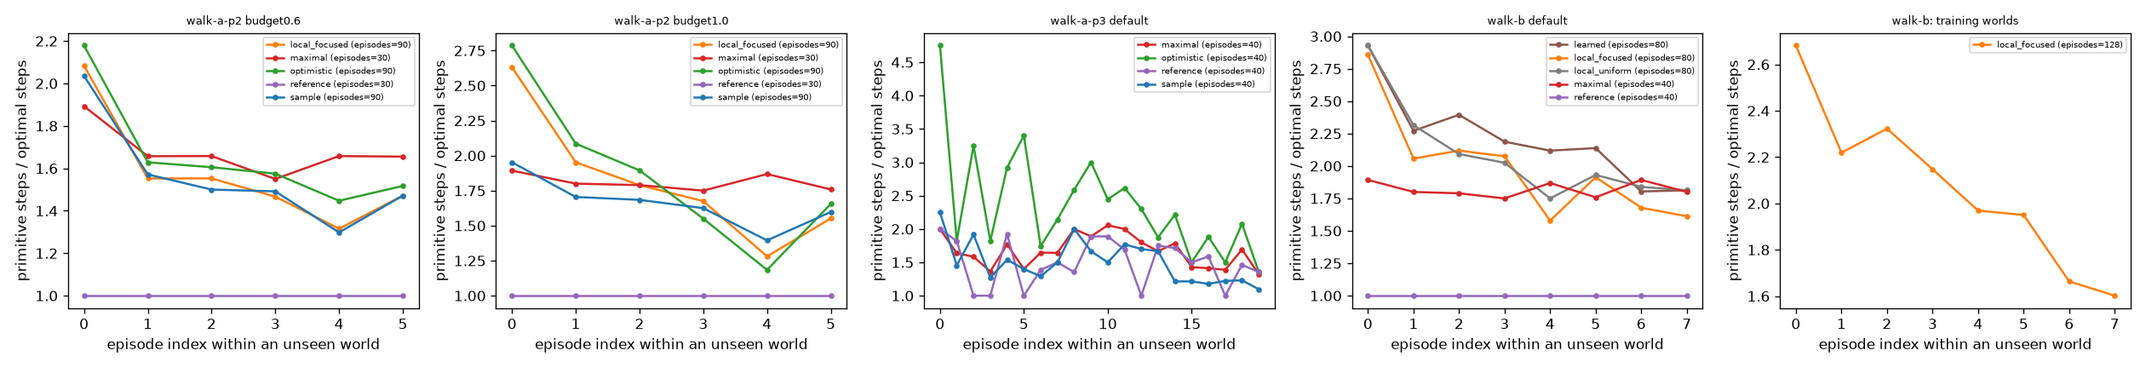
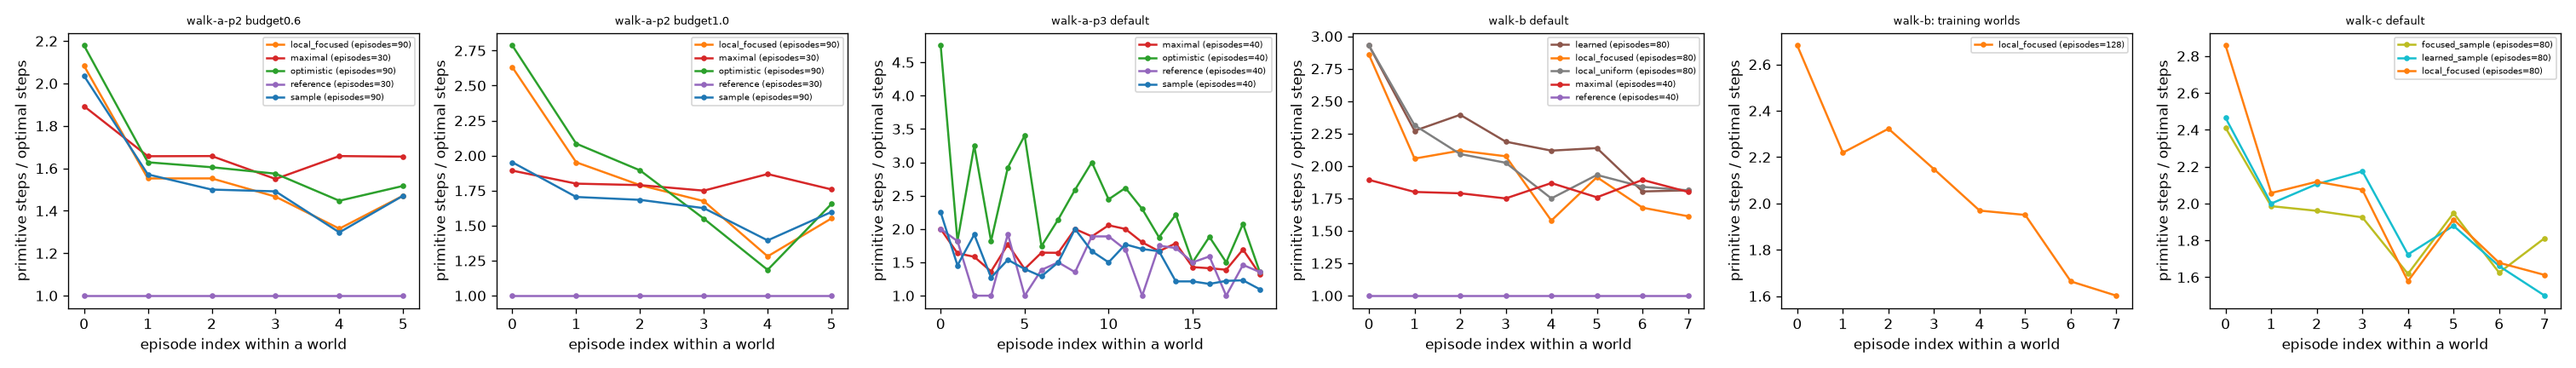
Add Stage C walker results
Sampling among consistent hypotheses raised success for both walks, but no
walk beat the brute-force plan in both seeds when only goals are observed
(the frozen Stage C contrast failed); the reproduction control matched
Stage B exactly.

diff --git a/src/hypergraph_agent/summarize.py b/src/hypergraph_agent/summarize.py
@@ -198,7 +198,8 @@ def figures(runs: list[dict], out_dir: Path) -> list[str]:
     # 4: walkers: cost relative to the optimum by episode index within a world
     colors = {"reference": "tab:purple", "maximal": "tab:red", "sample": "tab:blue",
               "optimistic": "tab:green", "local_uniform": "tab:gray", "local_focused": "tab:orange",
-              "learned": "tab:brown", "exact": "tab:pink"}
+              "learned": "tab:brown", "exact": "tab:pink", "focused_sample": "tab:olive",
+              "learned_sample": "tab:cyan"}
     groups = defaultdict(dict)  # panel -> strategy -> ep -> sums
     for r in done:
         if not str(r["phase"]).startswith("walker"):
@@ -225,7 +226,7 @@ def figures(runs: list[dict], out_dir: Path) -> list[str]:
                 ax.plot(xs, [eps[x][0] / max(eps[x][1], 1) for x in xs], marker="o", markersize=3,
                         color=colors.get(strat), label=f"{strat} (episodes={sum(eps[x][2] for x in xs)})")
             ax.set_title(panel, fontsize=8)
-            ax.set_xlabel("episode index within an unseen world")
+            ax.set_xlabel("episode index within a world")
             ax.set_ylabel("primitive steps / optimal steps")
             ax.legend(fontsize=6)
         fig.tight_layout()

diff --git a/docs/RESULTS.md b/docs/RESULTS.md
@@ -20,7 +20,7 @@ relation-local memory, goal-conditioned primitive-policy control,
 library-transplant diagnostic, credible-set-mask-as-feature control, learned
 proposals or termination (docs/DECISIONS.md, docs/ROADMAP.md).
 
-Test suite: 144 deterministic tests pass (`python -m pytest -q`), covering the
+Test suite: 148 deterministic tests pass (`python -m pytest -q`), covering the
 items listed in docs/METHODS.md (environment semantics, information boundary,
 equivariance and padding, incidence and hypergraph equivalence, topology
 updates and rollback, executor semantics, library lifecycle, duration-aware
@@ -168,9 +168,9 @@ Observations, not claims:
 
 ## 4.4 Hypergraph-walker study (addendum W of the plan)
 
-Separate ledger `runs/walker-ledger.json`: 22,948 of 32,000 adaptive
+Separate ledger `runs/walker-ledger.json`: 26,147 of 32,000 adaptive
 interactions (4,377 plumbing before the addendum, 13,416 Stage A, 5,155 Stage
-B) and 3,196 of 8,000 reporting. Evidence in `artifacts/walker/`; the figure
+B, 3,199 Stage C) and 3,196 of 8,000 reporting. Evidence in `artifacts/walker/`; the figure
 `walker_cost_by_episode.png` plots cost relative to the optimum by episode
 index within each world. Walkers are planners on hypothesized structures, not
 learned policies; the worlds are the only independent units (5 for P2 tasks,
@@ -257,6 +257,36 @@ arm, 35 problems x 5 paired start nodes per seed, at most 400 evaluations):
   policy is rewarded for reaching any consistent node quickly, not for reaching
   one that is cheap or informative to act on.
 
+**Stage C, sampling among consistent hypotheses** (same 40 goal-only tasks
+and seeds; 3,199 interactions; the learned arm reuses Stage B's edit policy
+per seed, its original 852 and 867 collection interactions charged logically):
+
+| Arm | Success (s0 / s1) | Steps / optimal (s0 / s1) | Cheaper than `maximal` in worlds |
+|---|---|---|---|
+| `maximal` (Stage B) | 1.00 | 1.82 | - |
+| `local_focused` (Stage B, reproduced exactly in Stage C) | 0.78 / 0.72 | 1.90 / 2.03 | 2 of 5 |
+| `focused_sample` | 0.95 / 0.82 | 1.88 / 1.92 | 2 of 5 |
+| `learned` (Stage B) | 0.60 / 0.68 | 2.24 / 2.14 | 1 of 5 |
+| `learned_sample` | 0.90 / 0.78 | 1.77 / 2.09 | 2 of 5 |
+
+- **Primary contrast failed.** `learned_sample` is cheaper than the brute-force
+  node in seed 0 (1.77) but not in seed 1 (2.09). No graph walk beats
+  brute force in both seeds when only goal outcomes are observed.
+- Sampling among consistent nodes raised success for both walks (focused
+  +0.17 and +0.10, learned +0.30 and +0.10) and lowered the learned walk's cost,
+  consistent with Stage A, where sampling beat the cheapest-guess rule.
+- The walks are still improving at the end of a world: in the eighth episode
+  `learned_sample` costs 1.50 and `maximal` 1.80 (pooled). Eight episodes do not
+  amortize the early exploration; longer streams per world were not tested.
+- The offline search advantage of the learned walk did not replicate on this
+  evidence: 24.8 versus 26.1 mean evaluations for the focused walk in seed 0,
+  and 22.4 versus 13.6 in seed 1.
+- Sampling costs about ten times more hypothesis evaluations per run (about
+  5,900 against 370-540): computation, not environment interactions.
+
+Walker ledger after Stage C: 26,147 of 32,000 adaptive and 3,196 of 8,000
+reporting interactions.
+
 ## 5. What the session shows and does not show
 
 Shows: the mechanisms run end to end under one interaction ledger; public
@@ -276,8 +306,10 @@ the pilot policies could not, including the P3 pilot's longer test tasks after
 1,500 interactions; posterior sampling over nodes beats the brute-force node on
 cost when items are observable; the optimistic rule does not (the frozen
 primary contrast failed) and breaks under noise. When intermediate items are
-hidden, a learned walk finds consistent nodes with fewer evaluations on average
-than a focused heuristic, but no walker beats the brute-force node at acting.
+hidden, a learned walk found consistent nodes with fewer evaluations on average
+than a focused heuristic in Stage B (not replicated on Stage C's evidence), and
+no walker beats the brute-force node at acting in both seeds, even after
+sampling among consistent nodes (Stage C), which did raise success.
 
 ## 6. Known issues in the recorded runs
 

diff --git a/paper/OUTLINE.md b/paper/OUTLINE.md
@@ -78,5 +78,6 @@ termination; two seeds per pilot; tuning only on the gated encoder.
 | 9 | Revision and growth interact | interaction contrast with intervals | 2-seed pilot, 0.0 (-0.10 to 0.125) | unresolved |
 | 10 | Any novelty claim | method-level comparison with MSGI, CODE-SHARP, OHCAM and others | audit at abstract or methods depth | unresolved |
 | 11 | Choosing a node of the hypothesis graph and planning on it saves interactions over the brute-force node | frozen W-A contrast `optimistic` - `maximal` | 1.82 vs 1.81 (failed); posterior sampling 1.63-1.66 vs 1.81, 4 of 5 worlds (secondary) | primary not supported; sampling variant supported descriptively |
-| 12 | A learned walk finds consistent hypotheses with fewer evaluations than a focused heuristic when hypotheses do not factorize | frozen W-B offline benchmark | mean 26.5 / 32.7 vs 37.6 / 39.2, higher median (RESULTS 4.4) | supported narrowly (2 seeds, 5 held-out worlds) |
+| 12 | A learned walk finds consistent hypotheses with fewer evaluations than a focused heuristic when hypotheses do not factorize | frozen W-B offline benchmark | Stage B: mean 26.5 / 32.7 vs 37.6 / 39.2, higher median; Stage C evidence: 24.8 vs 26.1 and 22.4 vs 13.6 (RESULTS 4.4) | not robust |
 | 13 | Faster search over hypotheses yields cheaper acting | online cost of the walkers in Stage B | learned walker is the costliest; no walker beats the brute-force node | not supported |
+| 14 | Sampling among consistent hypotheses lets a graph walk beat the brute-force node when only goals are observed | frozen W-C contrast `learned_sample` - `maximal`, both seeds | 1.77 (s0) and 2.09 (s1) vs 1.82 | not supported; sampling raised success for both walks |

diff --git a/README.md b/README.md
@@ -15,7 +15,7 @@ establishes a performance or novelty claim. The first development session
 ([docs/RESULTS.md](docs/RESULTS.md)) ran all three phases under one
 160,000-interaction ledger:
 
-- the mechanisms run end to end, and 144 deterministic tests pass;
+- the mechanisms run end to end, and 148 deterministic tests pass;
 - public evidence produced logged, evidence-linked revisions of the
   prerequisite structure (P2);
 - skills mined from the agent's own trajectories were trained, passed held-out
@@ -31,9 +31,10 @@ complete dependency hypergraph, each edge a single-incidence edit, and
 "hypergraph walkers" move on it from public evidence and plan on the node they
 choose (`python -m hypergraph_agent.walk`). Posterior sampling over nodes
 solved the tasks the learned policies could not, at fewer steps than a
-brute-force plan; when intermediate items are hidden, a learned walk found
-consistent hypotheses with fewer evaluations than a focused heuristic but did
-not act more cheaply ([docs/RESULTS.md](docs/RESULTS.md), Section 4.4).
+brute-force plan. When intermediate items are hidden, no walk beat the
+brute-force plan in both seeds; sampling among consistent hypotheses raised
+success, and the walks were still improving after eight episodes per world
+([docs/RESULTS.md](docs/RESULTS.md), Section 4.4).
 
 ## The game
 

diff --git a/docs/ROADMAP.md b/docs/ROADMAP.md
@@ -33,9 +33,11 @@ control and a cost estimate before it is built.
     eliminated, so the cheapest supported node never changes; require posterior
     support above a threshold before treating a node as plausible.
 6c. **Longer streams per world and an exact goal-only reference.** Eight
-    episodes did not amortize exploration when only goals are observed; a
-    constraint solver over connected groups of recipes would give an exact
-    reference where enumeration is infeasible.
+    episodes did not amortize exploration when only goals are observed (Stage
+    C's walks were still improving at episode 8); a constraint solver over
+    connected groups of recipes would give an exact reference where
+    enumeration is infeasible. Sampling among consistent nodes (Stage C) is
+    the default to build on.
 6d. **Start walks from the brute-force node** and remove requirements as evidence
     allows, instead of starting from single-candidate guesses.
 
